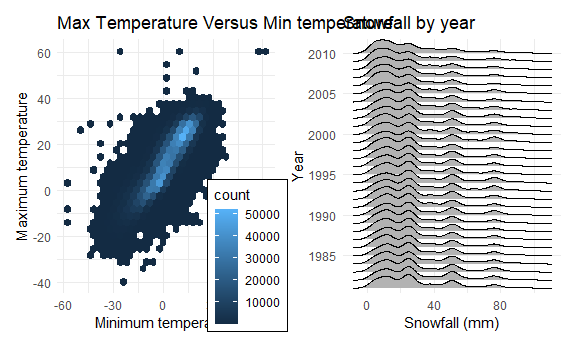
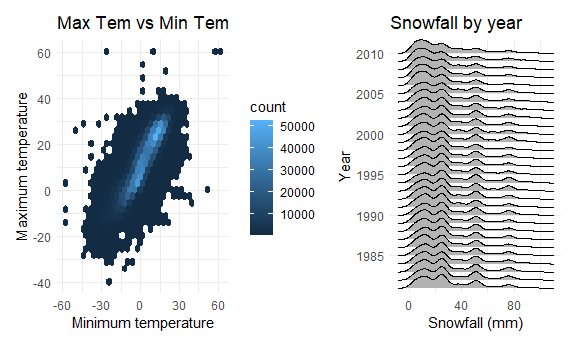
problem 1 comment

diff --git a/p8105_hw3_xg2489.md b/p8105_hw3_xg2489.md
@@ -1,7 +1,7 @@
 p8105_hw3_xg2489
 ================
 
-\#Problem 1
+\#`Problem 1`
 
 load the data
 
@@ -9,7 +9,17 @@ load the data
 data("ny_noaa")
 ```
 
-## data cleaning
+The NOAA New York weather dataset contains daily meteorological records
+across multiple weather stations in New York from 1981 to 2010. The
+dataset has approximately 2595176 rows (daily observations) and 7
+initial columns: `id`, `date`, `prcp`, `snow`, `snwd`, `tmax`, `tmin`.
+
+Missing values are important in this dataset. Many rows contain NA
+values for temperature and snow/precipitation measurements, meaning some
+daily records lack valid readings. In `tmax`and `tmin`, over 40 percent
+of the record is missing which may affect the related plots.
+
+## `1.1`
 
 ``` r
 ny_noaa_df = ny_noaa |>
@@ -76,7 +86,16 @@ ny_noaa_df |>
     ##  9    18    3226
     ## 10    20    4797
 
-\##January vs July
+We split `date` into `year`, `month`, and `day` for future analysis.
+Among the variables, units of `prcp`, `tmax`, `tmin` need to be divided
+by 10 because their units are tenth of the reasonable units.
+
+For snow value count, the majority of daily observations have
+`snow = 0`, meaning no snowfall on those days. We also observe an
+negative value of snowfall (`snow = -13`) which represents an erroneous
+data entry and it should be excluded from subsequent analysis.
+
+\##`1.2`
 
 ``` r
 mean_tmax = ny_noaa_df |>
@@ -87,8 +106,7 @@ mean_tmax = ny_noaa_df |>
   group_by(id, year, month) |>
   summarise(
     mean_tmax = mean(tmax, na.rm = TRUE)
-  ) |>
-  view()
+  ) 
 ```
 
     ## `summarise()` has regrouped the output.
@@ -132,27 +150,34 @@ mean_tmax |>
 
 <img src="p8105_hw3_xg2489_files/figure-gfm/unnamed-chunk-4-1.png" alt="" width="90%" />
 
+This two-panel figure presents boxplots of average maximum temperature
+for January and July, grouped by year, with smoothed trend lines
+overlaid.
+
+July maximum temperatures are consistently much warmer than January
+maximum temperatures. Temperatures fluctuate from year to year. January
+shows periodic warmer and colder periods over time, while July
+temperatures remain relatively stable and warm across decades.
+
+Outliers are present in both months. January has many warm high-value
+outliers. July also a few low-value outliers, including an unusually
+cold observation in 1988, representing rare anomalous weather events.
+
+\##`1.3`
+
 ``` r
 plot_1 = ny_noaa_df |> 
   ggplot(aes(x = tmin, y = tmax)) + 
   geom_hex() +
   theme(legend.position = "right") + 
   labs(
-    title = "Max Temperature Versus Min temperature", 
+    title = "Max Tem vs Min Tem", 
     x = "Minimum temperature", 
     y = "Maximum temperature"
-  ) +
-  theme(
-    legend.position = c(0.87, 0.15), 
-    legend.background = element_rect(fill="white", alpha=0.8) # 加半透明白底，避免盖住点
-  )
-```
+  ) 
+  
 
-    ## Warning in element_rect(fill = "white", alpha = 0.8): `...` must be empty.
-    ## ✖ Problematic argument:
-    ## • alpha = 0.8
 
-``` r
 plot_2 = ny_noaa_df |>
   filter(snow > 0, snow < 100) |>
   ggplot(aes(x = snow, y = year)) +
@@ -171,6 +196,23 @@ plot_1 + plot_2
     ## Picking joint bandwidth of 3.76
 
 <img src="p8105_hw3_xg2489_files/figure-gfm/unnamed-chunk-5-1.png" alt="" width="90%" />
+
+This two-panel figure contains a hexbin (left) and a ridge plot (right).
+
+The left hexbin plot illustrates the positive correlation between
+minimum and maximum temperatures, where higher minimums generally align
+with higher maximums. The color gradient highlights data density,
+showing that most observations are heavily concentrated in the mild
+temperature range (min temp between 0°C and 20°C, max temp between 0°C
+and 30°C), while rare extreme values outliers still exist.
+
+The right ridgeline plot illustrates the probability density
+distribution of annual snowfall. Across the decades, the snowfall data
+exhibits a strikingly consistent multimodal distribution, characterized
+by distinct primary peaks at approximately 10 mm and 20–30 mm, alongside
+smaller secondary peaks near 50 mm and 75 mm. The temporal stability of
+these density profiles indicates that the regional snowfall regime is
+relatively stable over time.
 
 \#Problem 2
 
